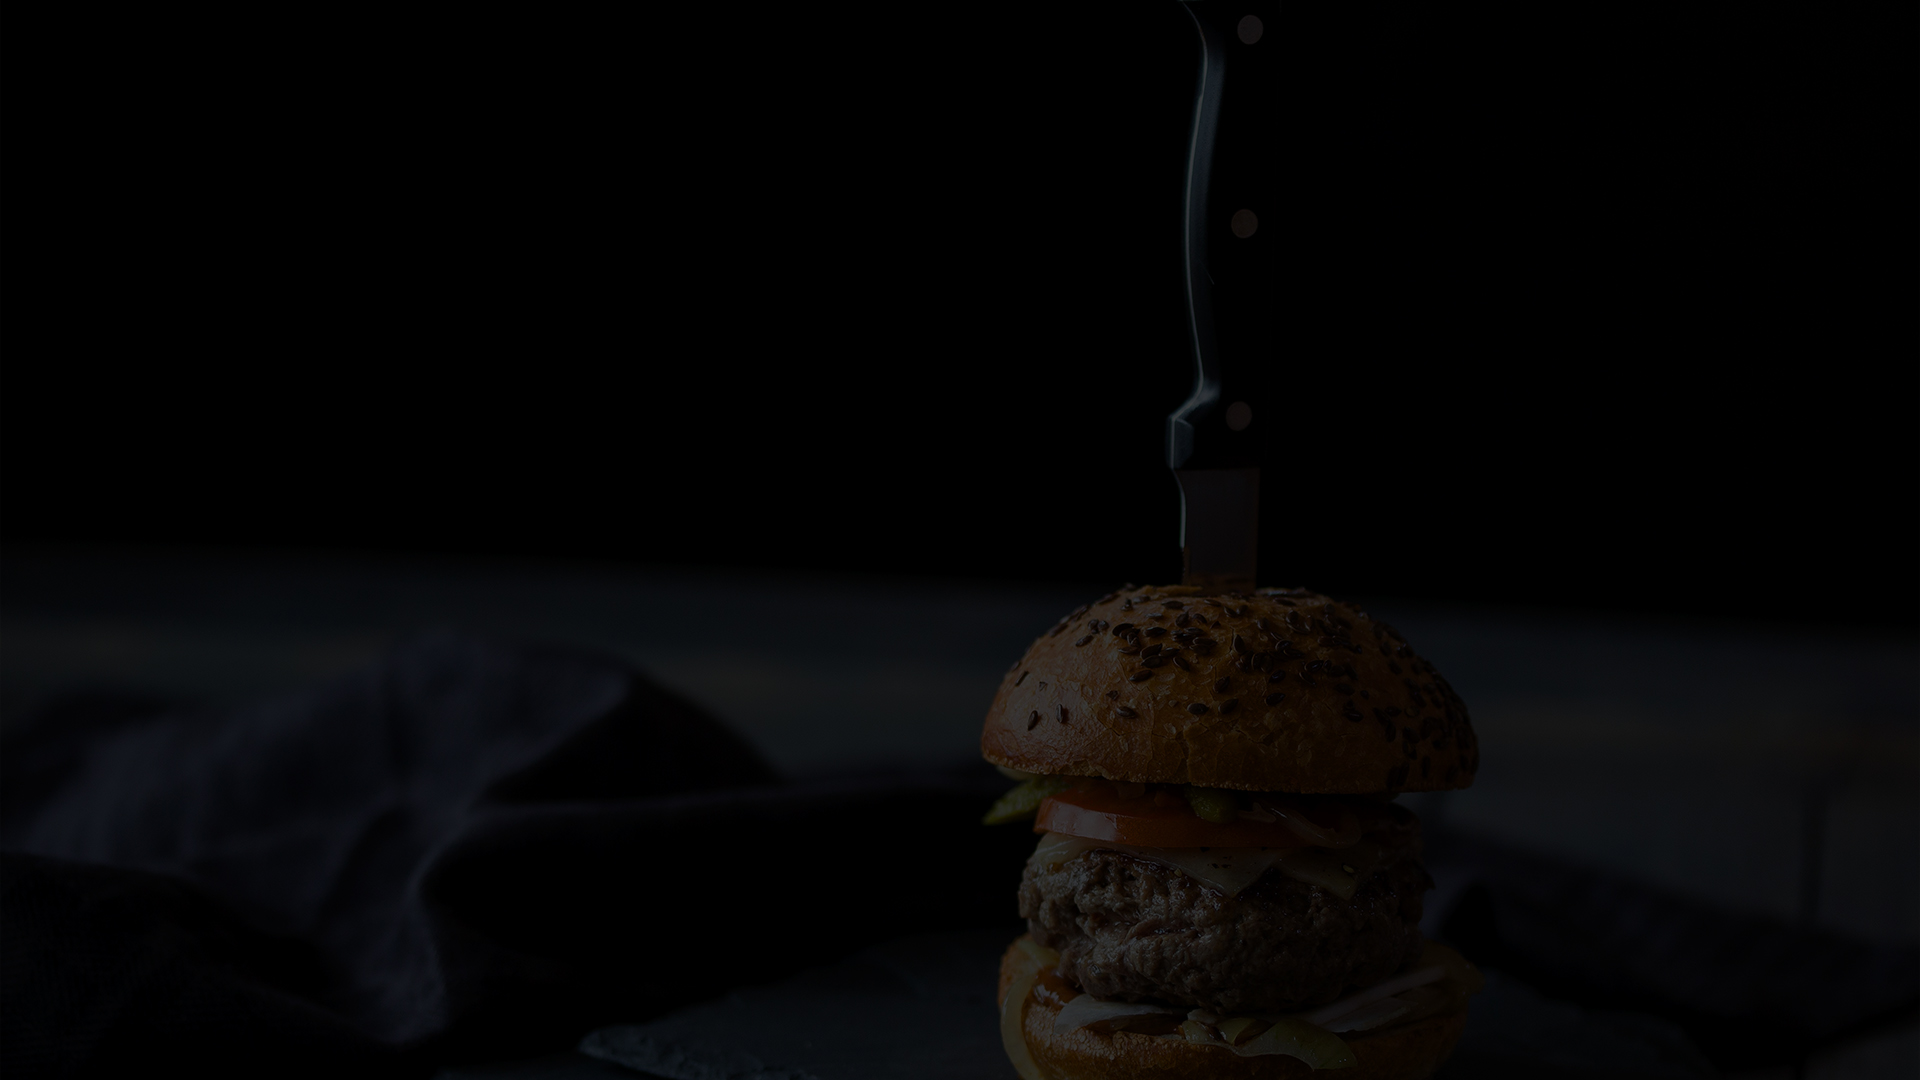
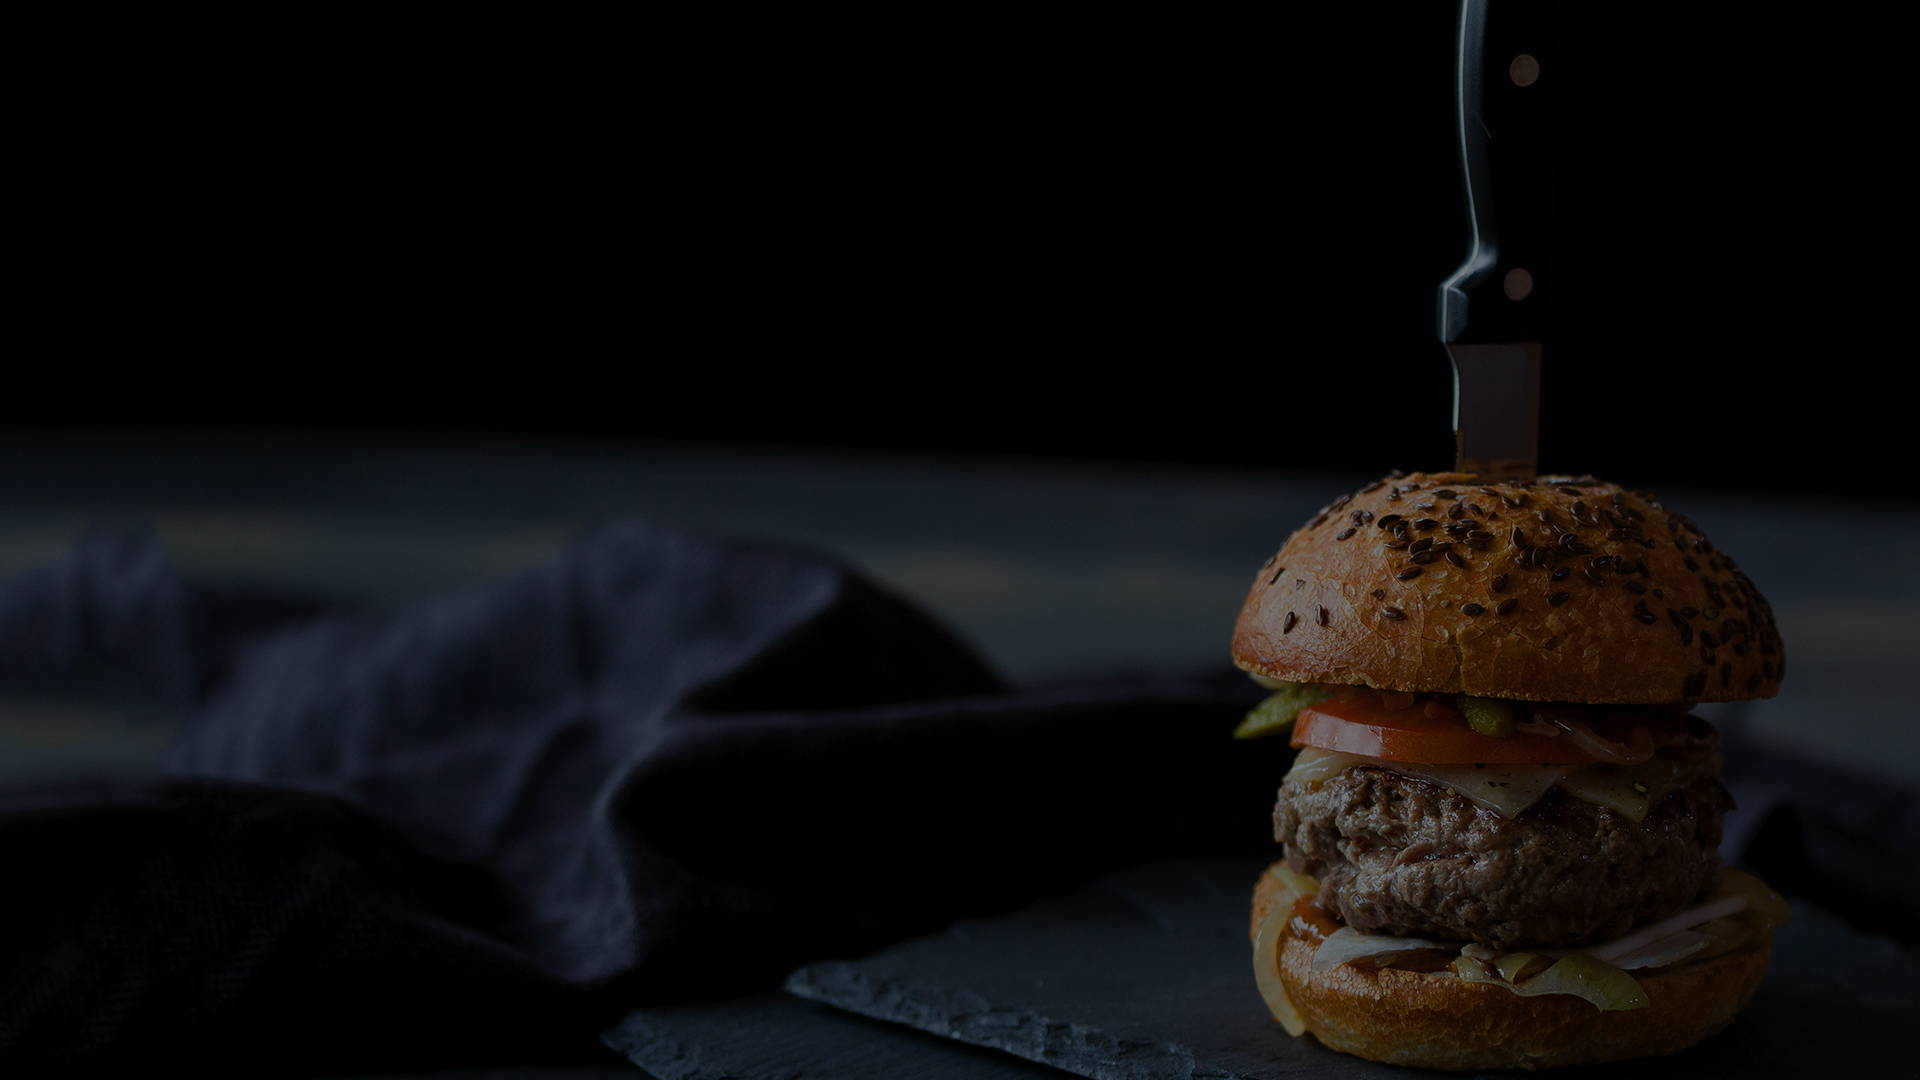
background fixed

diff --git a/Odev1/main.css b/Odev1/main.css
@@ -2,7 +2,7 @@ body,head {
     font-family: Arial, Helvetica, sans-serif;
     font-size: 16px;
     text-align: center;
-    background-image: url("back2.jpg");
+    background-image: url("back.jpg");
     background-size: auto;
     background-position: center;
 }
